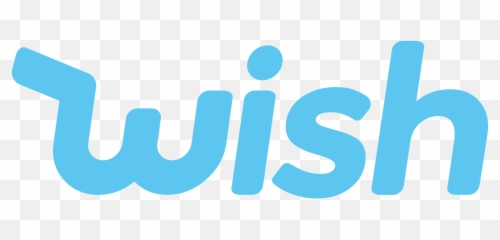
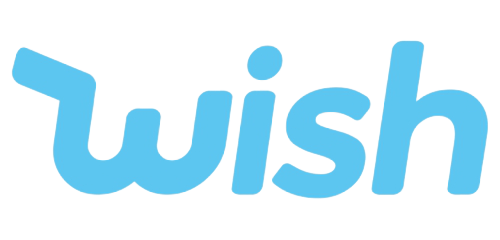
remove background, add to site

diff --git a/src/sections/Sponsor/OurSponsors.jsx b/src/sections/Sponsor/OurSponsors.jsx
@@ -1,12 +1,36 @@
 import React from "react";
 import SectionWrapper from "../../components/SectionWrapper/SectionWrapper";
 import "./OurSponsors.scss";
+import google from "../../resources/images/sponsors/silver/google.png";
+import wish from "../../resources/images/sponsors/silver/wish.png";
+import scotiabank from "../../resources/images/sponsors/silver/scotiabank.png";
+import amazon from "../../resources/images/sponsors/bronze/amazon.png";
+import facebook from "../../resources/images/sponsors/bronze/facebook.png";
+import hrt from "../../resources/images/sponsors/bronze/hrt.png";
+import splunk from "../../resources/images/sponsors/bronze/splunk.png";
+import zynga from "../../resources/images/sponsors/bronze/zynga.png";
+
 
 const OurSponsors = () => (
     <SectionWrapper id="our-sponsors">
         <div className="our-sponsors-container">
-            <span className="title">Our Sponsors</span>
+            <h2 className="our-sponsors-title">Our Sponsors</h2>
+            <div>
+                <img className="our-sponsors-silver" src={google} alt="Google"/>
+                <img className="our-sponsors-silver" src={wish} alt="Wish"/>
+                <img className="our-sponsors-silver" src={scotiabank} alt="Scotiabank"/>
+            </div>
+            <div> 
+                <img className="our-sponsors-bronze" src={amazon} alt="Amazon"/>
+                <img className="our-sponsors-bronze" src={facebook} alt="facebook"/>
+                <img className="our-sponsors-bronze" src={hrt} alt="HRT"/>
+                <img className="our-sponsors-bronze" src={splunk} alt="Splunk"/>
+                <img className="our-sponsors-bronze" src={zynga} alt="Zynga"/>
+            </div>
+            
+            
         </div>
+       
     </SectionWrapper>
 );
 

diff --git a/src/sections/Sponsor/OurSponsors.scss b/src/sections/Sponsor/OurSponsors.scss
@@ -1,6 +1,32 @@
-.our-sponsors-container {
+@import "../../constants";
+
+.our-sponsors {
+  &-container {
+    display: inline-block;
+    margin-left: 1ch;
     height: 92vh;
-    display: flex;
-    align-items: flex-start;
-    justify-content: flex-start;
+    text-align: left;
+    @include phone {
+      height: auto;
+      padding: 2rem;
+    }
+  }
+  &-title {
+    font-family: $font-title;
+    font-size: $text-xlarge;
+    margin-bottom: 3rem;
+    @include phone {
+      margin-bottom: 2rem;
+      font-size: $text-medium;
+      text-align: center;
+    }
+  }
+  &-silver {
+    width: 33%;
+    margin-left: 0.25rem;
+  }
+  &-bronze {
+    width: 20%;
+    margin-left: 0.25rem;
+  }
 }
